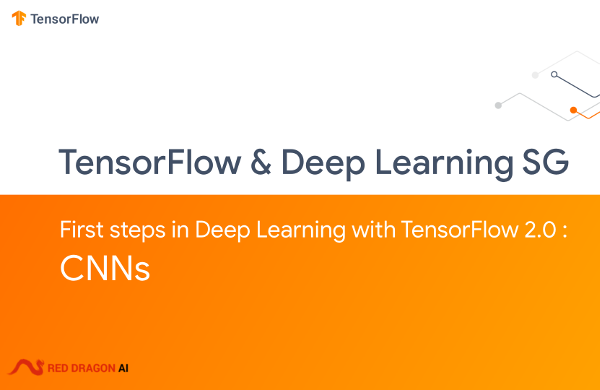
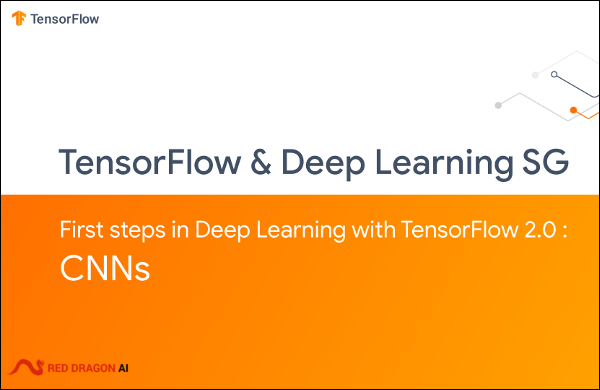
Publish

Changed region(s): [[0.0, 0.0, 1.0, 1.0], [0.0, 0.0, 0.03, 0.0308]]

diff --git a/_posts/AI/2019-04-16-presentation-at-tensorflow.md b/_posts/AI/2019-04-16-presentation-at-tensorflow.md
@@ -1,13 +1,14 @@
 ---
 date: 2019-04-16
-title:  "Images and CNNs"
+title:  "TensorFlow 2.0 : CNNs for Images"
 tagline: Presentation
 category: AI
 tags:
 - Presentation
 - TensorFlow
+- CNNs
 layout: post
-published: false
+published: true
 ---
 {% include JB/setup %}
 
@@ -29,6 +30,7 @@ and Sam explored how Progressively growing training works for ResNet-50 (from sc
 
 <!--
 2019-04-16_TFandDL_TF2-CNNs
+2019-04-16_TFandDL_TF2-CNNs-for-Images
 
 "First steps in Deep Learning with TensorFlow 2.0 : CNNs" - Martin Andrews
 This talk aims to cover the "something for beginners" part of our tagline - 

diff --git a/_posts/AI/2019-03-14-presentation-at-tensorflow.md b/_posts/AI/2019-03-14-presentation-at-tensorflow.md
@@ -322,6 +322,16 @@ Presentation slides (as PDF) : http://redcatlabs.com/downloads/2019-03-14_TFandD
 
 The slides for my talk (as a 3.8Mb PDF) are here :
 
+<!--
+NB: To add black border, simplest to use Gimp to : 
+Select All
+Shrink selection by 1 px
+Invert selection
+Fill selection with forground (black) colour
+Export
+!-->
+
+
 <a href="http://redcatlabs.com/downloads/2019-03-14_TFandDL_TFLite.pdf" target="_blank">
 ![Presentation Screenshot]({{ site.url }}/assets/img/2019-03-14_TFandDL_TFLite_1_600x390.png)
 </a>
